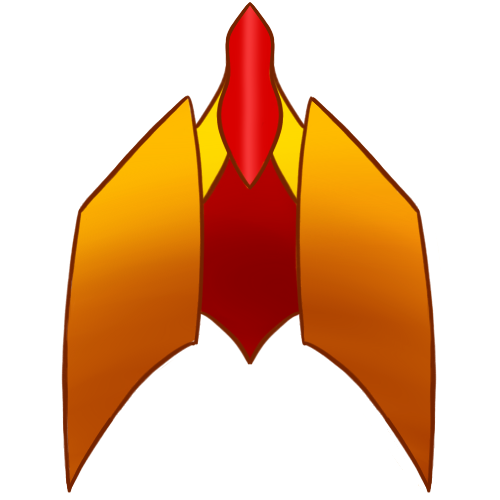
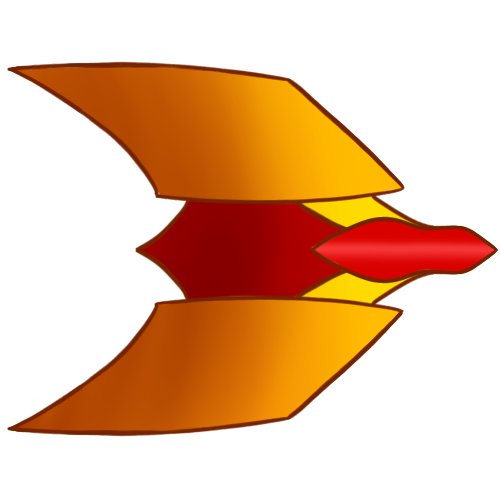
changed orbiter texture

diff --git a/src/scenes/Play.js b/src/scenes/Play.js
@@ -8,7 +8,7 @@ class Play extends Phaser.Scene {
 
     preload() {
         //loading assets
-        this.load.image('orbiter', 'assets//background/ShipSample.png');
+        this.load.image('orbiter', 'assets/newShip.png');
         this.load.image('blackHole', './assets/blackhole/blackHole.png');
         this.load.spritesheet('blackHoleWaves', './assets/blackhole/swarmAnim.png', { frameWidth: 1395, frameHeight: 1080, startFrame: 0, endFrame: 9 });
         this.load.image('boundingRing', 'assets/planets/dottedRing.png');
